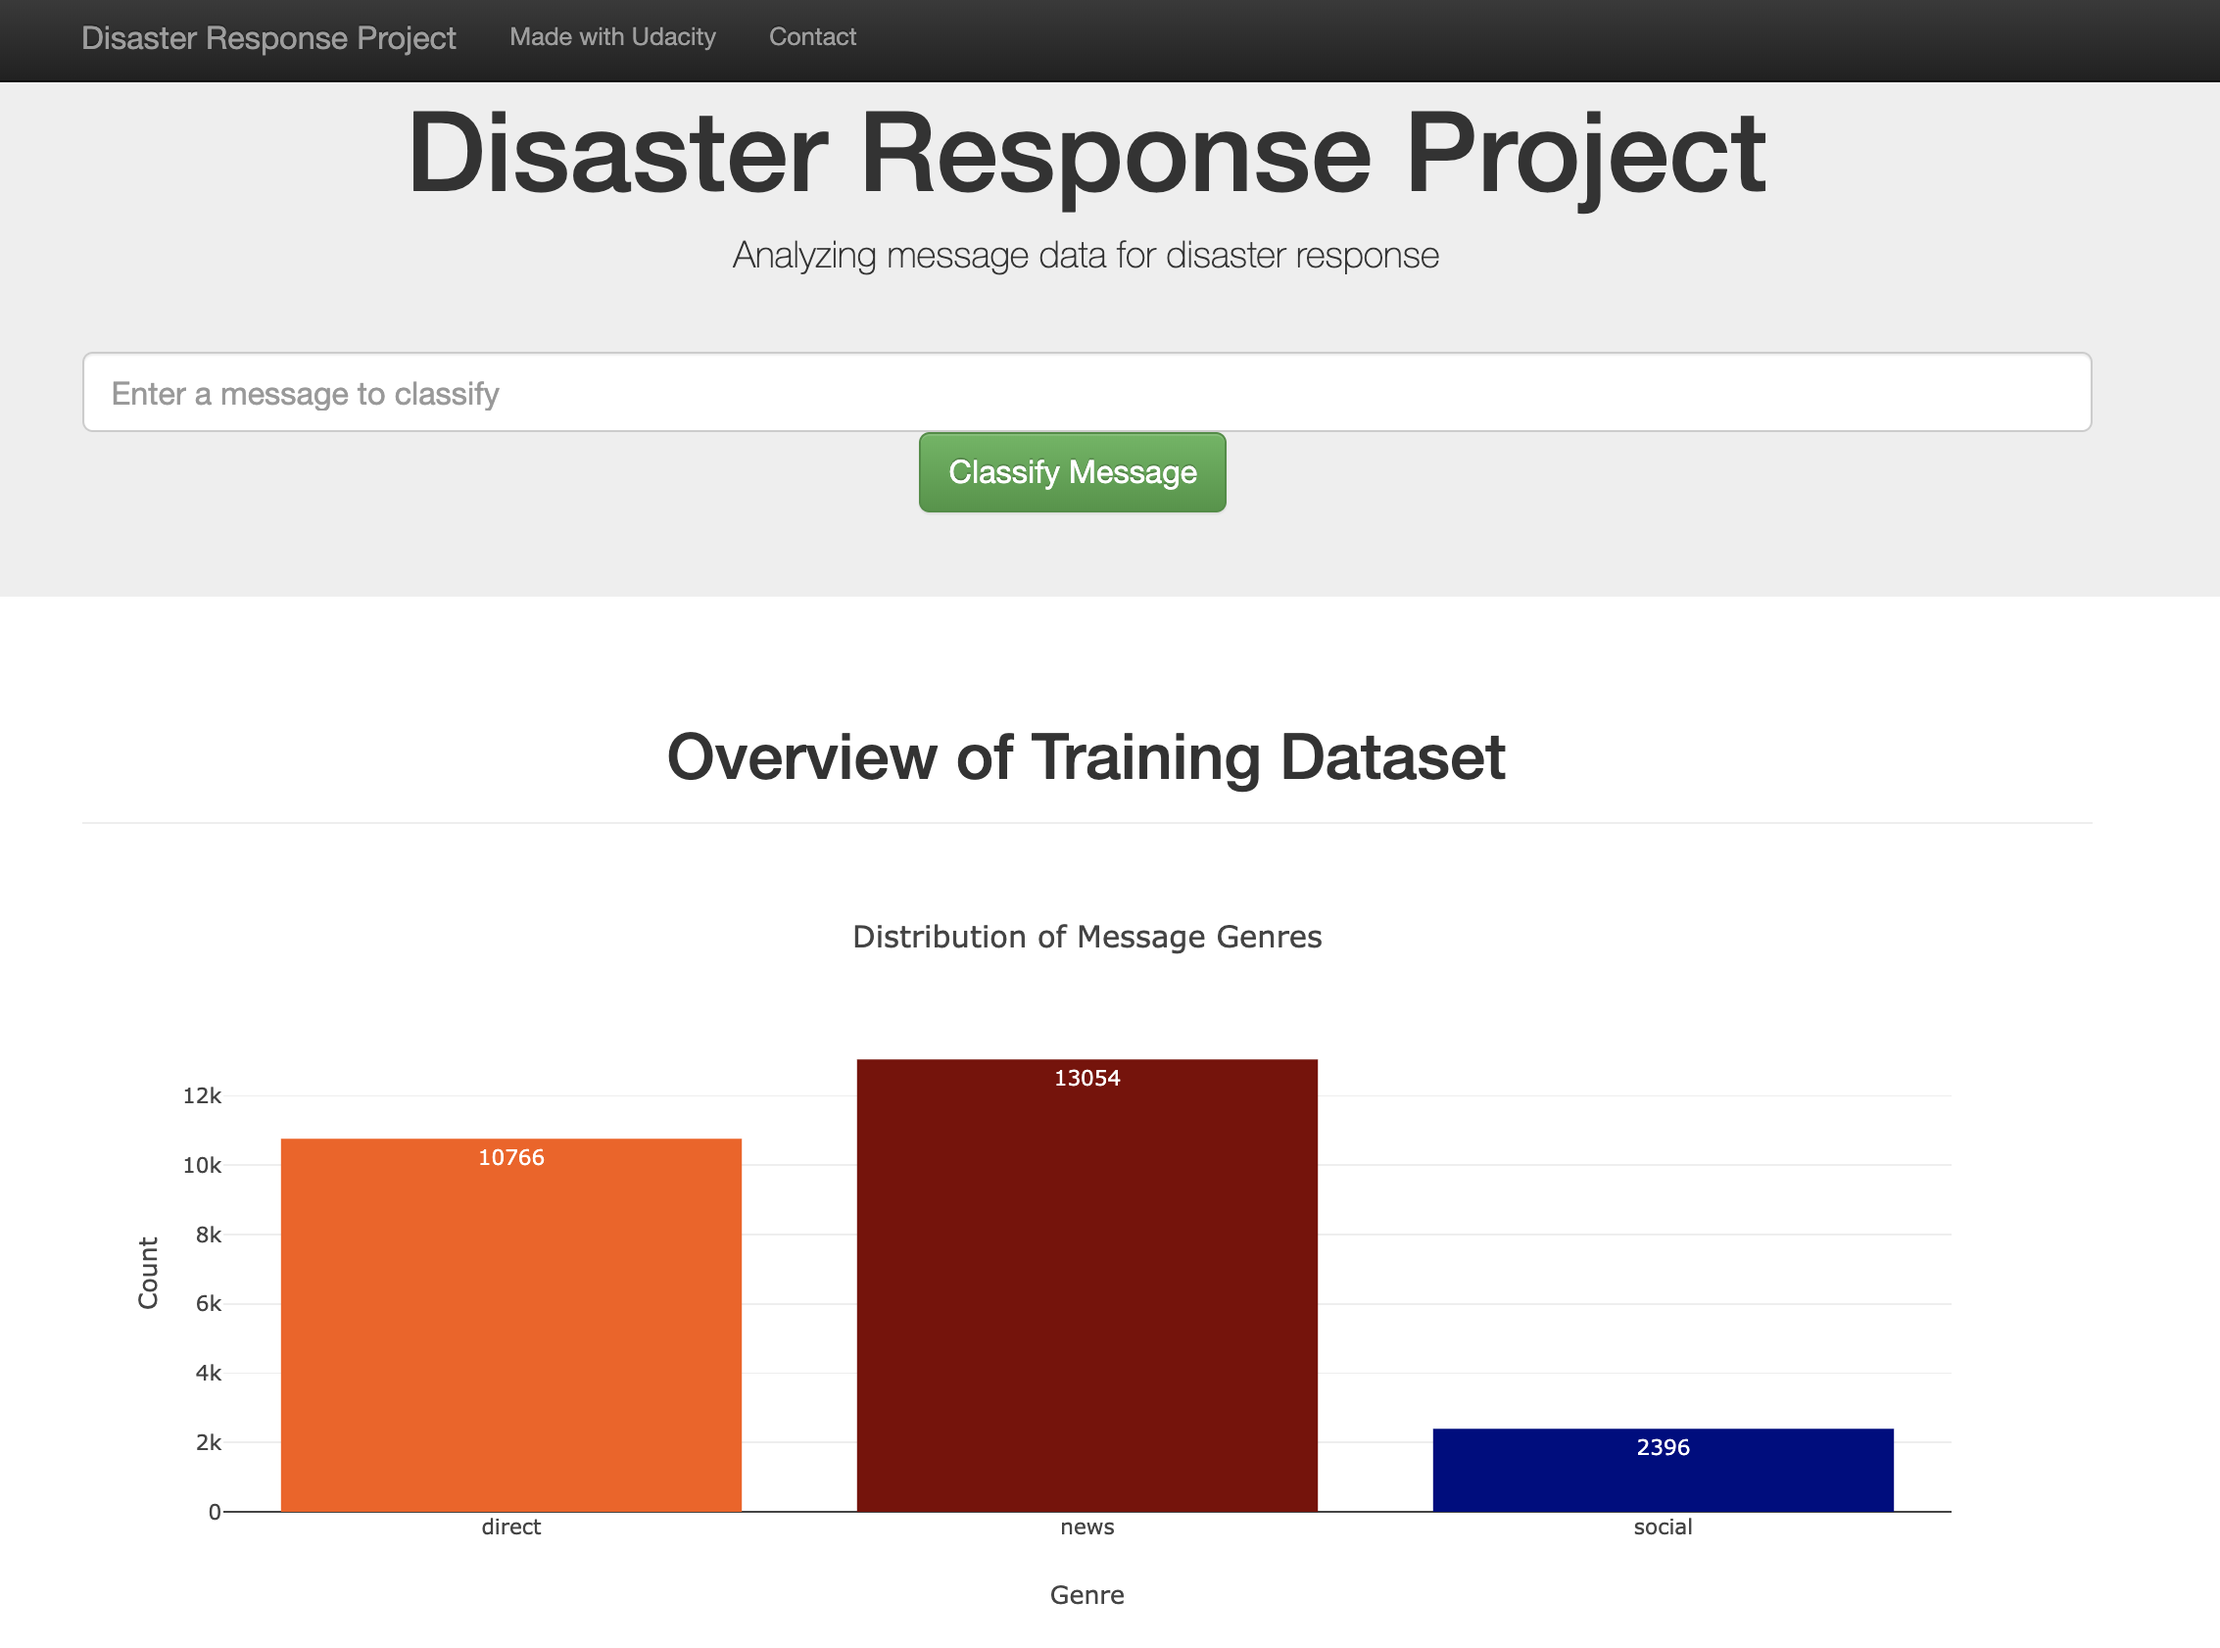
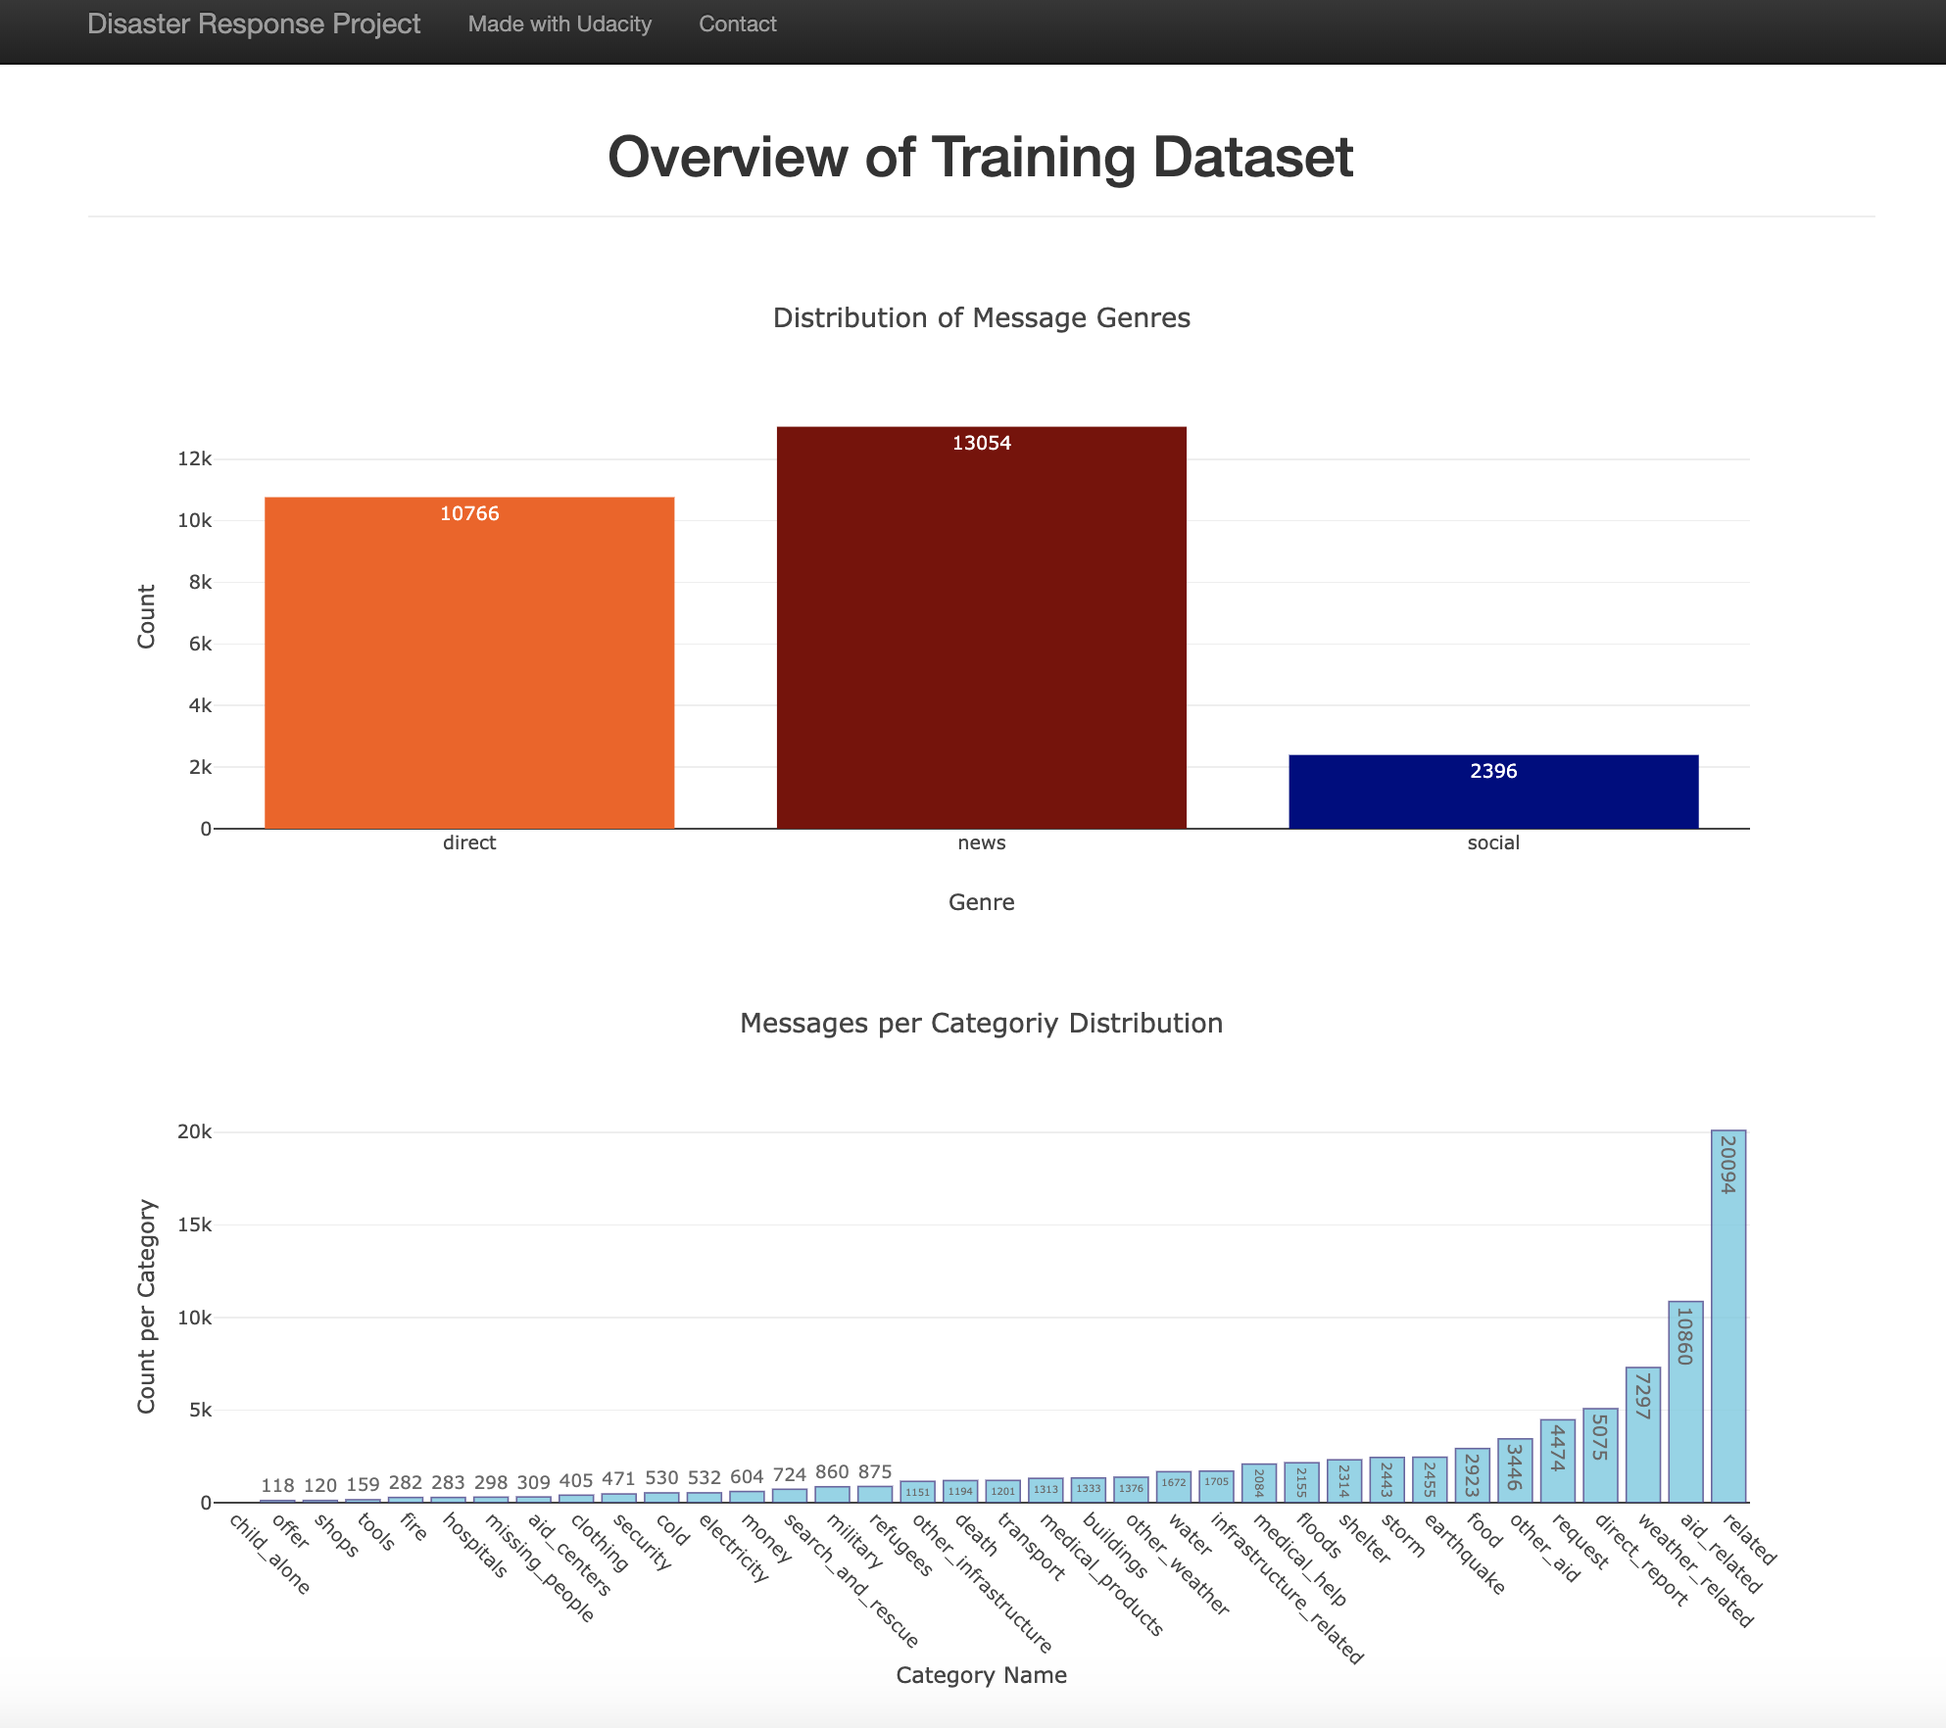
README updated

diff --git a/app/run.py b/app/run.py
@@ -47,8 +47,9 @@ def index():
     category_names =  list(df.iloc[:,4:].columns)
     category_count = (df.iloc[:,4:] != 0).sum().values
     
-    sortx = [x for _,x in sorted(zip(category_count,category_names))]
-    sorty = sorted(category_count, reverse=True)    
+    #sorting the results
+    sortx = [x for _,x in sorted(zip(category_count, category_names))]
+    sorty = sorted(category_count)    
     
     # create visuals
     # TODO: Below is an example - modify to create your own visuals

diff --git a/README.md b/README.md
@@ -56,7 +56,6 @@ A web app is included where an emergency worker can input a new message and get 
 #### How the Flask App looks like
 ![Flask App screenshot1](img/1.png)
 
-![Flask App screenshot1](img/3.png)
 <br><br><br>
 #### Example from a message input and classification results in several categories
 ![Flask App screenshot2](img/2.png)
